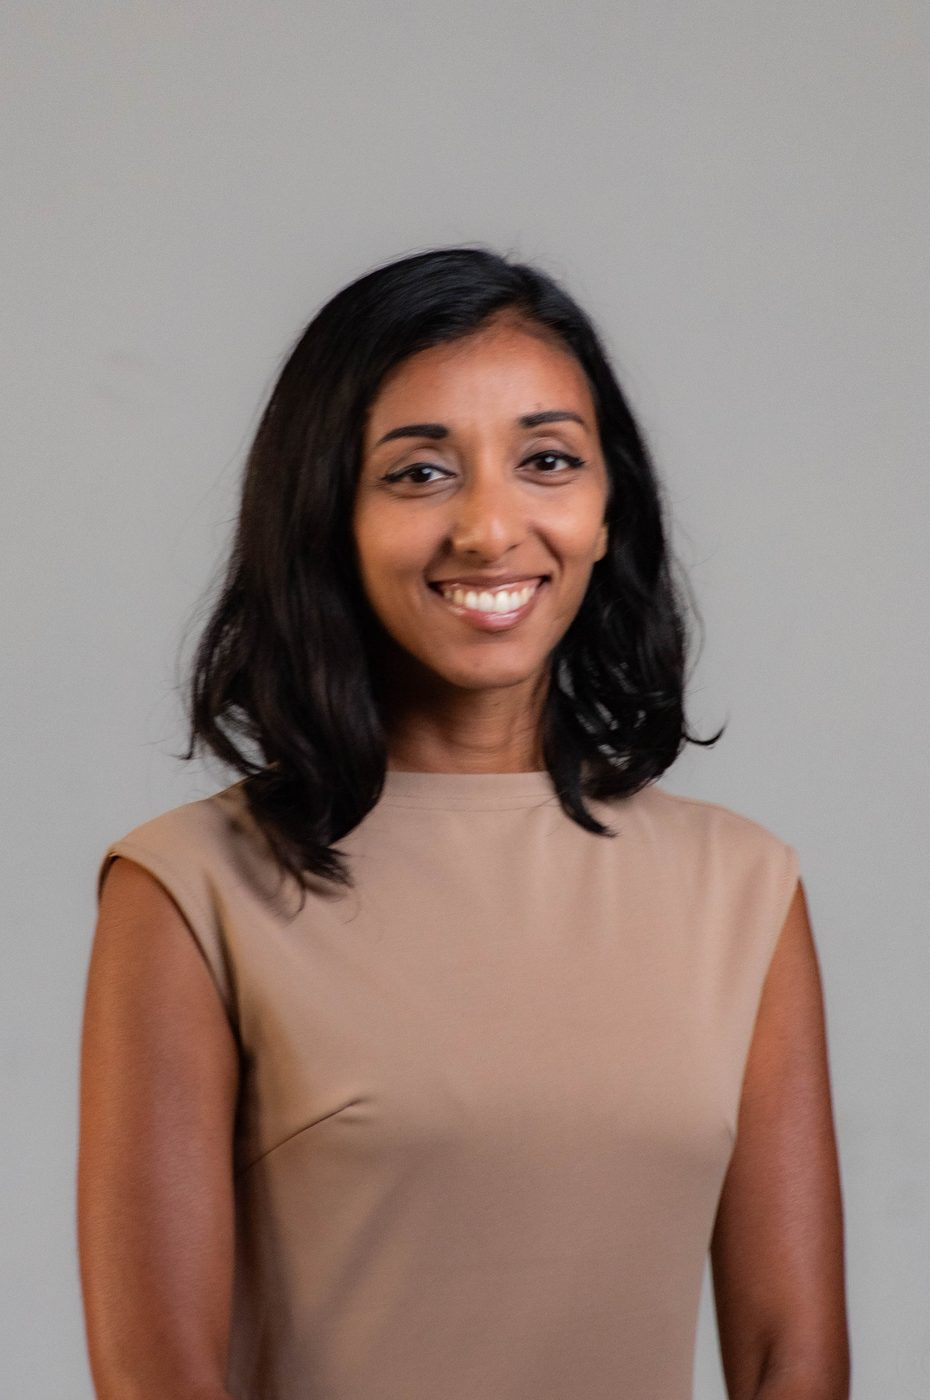
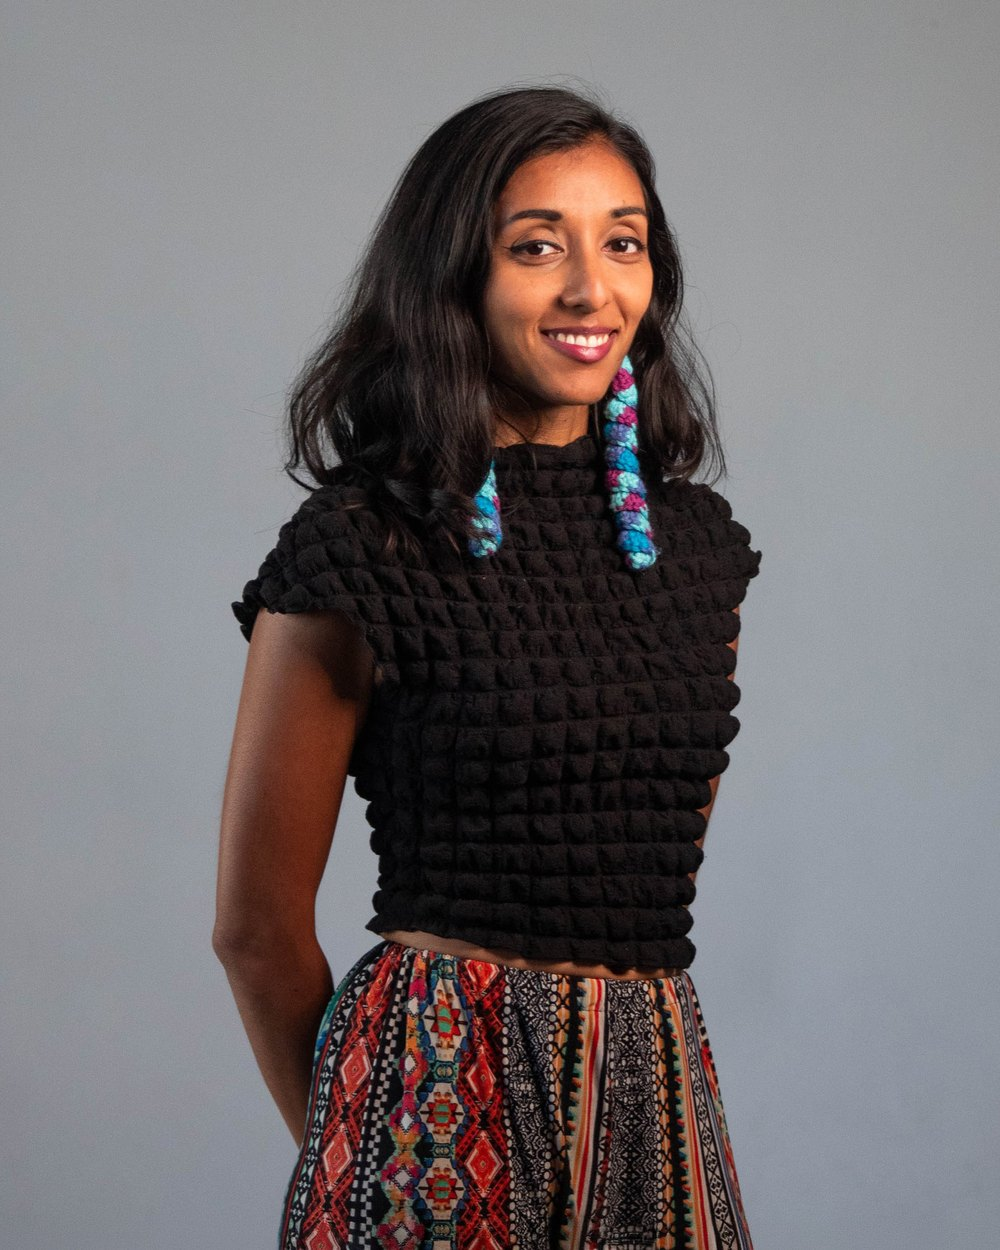
Update board member bios

diff --git a/index.html b/index.html
@@ -606,7 +606,7 @@
     }
     .team-copy h2 { margin: 12px 0 8px; font-size: clamp(52px, 7vw, 96px); line-height: .9; position: relative; }
     .team-role { color: var(--sage); font-size: 13px; letter-spacing: .18em; text-transform: uppercase; font-weight: 900; margin-bottom: 26px; position: relative; }
-    .team-copy p { color: rgba(247,241,231,.76); line-height: 1.75; font-size: 17px; max-width: 680px; position: relative; }
+    .team-copy p { color: rgba(247,241,231,.76); line-height: 1.75; font-size: 17px; max-width: 680px; position: relative; white-space: pre-line; }
     .team-social { color: var(--cream); text-decoration: none; display: inline-flex; margin-top: 6px; border-bottom: 1px solid rgba(247,241,231,.44); position: relative; }
     .team-picker {
       display: grid;
@@ -1240,7 +1240,7 @@
           <div class="team-picker" role="tablist" aria-label="Select team member">
             <button class="team-tab active" type="button" data-member="drew" role="tab" aria-selected="true"><img src="assets/img/drew.jpg" loading="eager" decoding="async" alt="" /><span><strong>Drew Muse</strong><span>President</span></span></button>
             <button class="team-tab" type="button" data-member="tanya" role="tab" aria-selected="false"><img src="assets/img/tanya.jpg" loading="eager" decoding="async" alt="" /><span><strong>Tanya Pereira</strong><span>Secretary & Treasurer</span></span></button>
-            <button class="team-tab" type="button" data-member="alicia" role="tab" aria-selected="false"><img src="assets/img/alicia.jpg" loading="eager" decoding="async" alt="" /><span><strong>Alicia Ester</strong><span>Board Member</span></span></button>
+            <button class="team-tab" type="button" data-member="alicia" role="tab" aria-selected="false"><img src="assets/img/alicia.jpg" loading="eager" decoding="async" alt="" /><span><strong>Alicia “ACE” Easter</strong><span>Board Member</span></span></button>
             <button class="team-tab" type="button" data-member="rebekah" role="tab" aria-selected="false"><img src="assets/img/rebekah.jpg" loading="eager" decoding="async" alt="" /><span><strong>Rebekah Rivera</strong><span>Board Member</span></span></button>
             <button class="team-tab" type="button" data-member="derek" role="tab" aria-selected="false"><img src="assets/img/derek.jpg" loading="eager" decoding="async" alt="" /><span><strong>Derek Garlington</strong><span>Board Member</span></span></button>
           </div>
@@ -1353,16 +1353,22 @@
         name: 'Tanya Pereira',
         role: 'Secretary & Treasurer',
         image: 'assets/img/tanya.jpg',
-        bio: 'Tanya Pereira serves as Secretary and Treasurer for Body Bend Yoga Community Foundation, helping hold the operational, governance, and financial stewardship side of the circle. Her expanded approved bio can be added here once finalized.',
+        bio: `Tanya brings a chemical engineer's lens to the work of building community. In her career, she leads scale-up and commercialization strategy, translating complex technical systems into clear, executable plans, built on process optimization, cross-functional collaboration, and knowing how to take something promising and figure out how to make it work at scale.
+
+As Secretary & Treasurer for BBYCF, Tanya oversees the Foundation's financial stewardship and governance, ensuring that BBYCF's growth is as intentional and well-built as the communities it serves.`,
         social: 'Board profile pending',
         socialUrl: '#about'
       },
       alicia: {
         eyebrow: 'Board of Directors',
-        name: 'Alicia Ester',
+        name: 'Alicia “ACE” Easter',
         role: 'Board Member',
         image: 'assets/img/alicia.jpg',
-        bio: 'Alicia Ester serves on the BBYCF Board of Directors, supporting the foundation as it grows its scholarship, wellness, and community access work. Her expanded approved bio can be added here once finalized.',
+        bio: `ACE is a wellness practitioner, keynote speaker, and retreat leader who has spent more than a decade guiding individuals, schools, corporations, and communities toward greater well-being through yoga, meditation, breathwork, sound healing, and mindfulness. She is the founder of ACE Enterprises LLC and ACE Yoga LA, and the creator of Peace in the Pause, ACE Yoga for Kids, and Stay Brave Retreats.
+
+After earning her degree in Business Administration from Auburn University and spending fifteen years in corporate marketing and commercial real estate, ACE found her life's work through the healing power of yoga while grieving the loss of her mother, and has built her career on creating space for others to reconnect with themselves. She partners with organizations, schools, and brands to bring wellness into the workplace and community, and hosts the JOY FOR LIFE Podcast, exploring conversations on joy, healing, and purpose.
+
+As a board member, ACE brings her guiding belief that peace isn't the destination but the practice to BBYCF's mission of creating brave, joyful spaces for healing and connection.`,
         social: 'Board profile pending',
         socialUrl: '#about'
       },
@@ -1371,7 +1377,11 @@
         name: 'Rebekah Rivera',
         role: 'Board Member',
         image: 'assets/img/rebekah.jpg',
-        bio: 'Rebekah Rivera serves on the BBYCF Board of Directors, helping strengthen the community foundation and its support for wellness educators. Her expanded approved bio can be added here once finalized.',
+        bio: `Rebekah is a devoted lifelong student of yoga, philosophy, mythology, and the subtle art of being human. Often called a "teacher's teacher," she's known for her gentle, insightful guidance, helping others move beyond theory and into the lived, embodied wisdom of their own experience.
+
+Her inclusive, holistic teachings weave timeless wisdom with insights from psychology, cross-cultural mythology, and physiology, making complex ideas accessible and deeply relevant to everyday life. Whether leading a workshop or a quiet conversation, she creates spaces where authenticity is honored, imperfection is welcome, and true transformation unfolds gently and organically.
+
+As a board member, Rebekah brings her warmth, humor, and unwavering presence to BBYCF's mission, inspiring the community to walk its path with clarity, courage, and compassion.`,
         social: 'Board profile pending',
         socialUrl: '#about'
       },
@@ -1380,7 +1390,11 @@
         name: 'Derek Garlington',
         role: 'Board Member',
         image: 'assets/img/derek.jpg',
-        bio: 'Derek Garlington serves on the BBYCF Board of Directors, supporting the foundation as it grows its scholarship, wellness, and community access work. His expanded approved bio can be added here once finalized.',
+        bio: `Derek is a multidisciplinary artist and healer through the modalities of movement, sound, and storytelling. As a 2x MMA Champion and yoga instructor, he's blended the two forms into his own FlowFighting practice, Martial Asana, and conducts sound baths and meditations that calm and cleanse through vibration and affirmation.
+
+His written work has been published as a novel and produced as a short film, Kindred Souls, and he holds a master's in Screenwriting from the University of Southern California. Behind the camera, he's covered over a hundred events, and he built the collaborative storytelling card game Pitch It to Me to bring others into the creative process.
+
+As a wellness guide, Derek has alchemized his talents in a variety of ways to enrich our presence with the human experience, and he brings that same spirit to BBYCF's mission of building space for rest, connection, and restoration.`,
         social: 'Board profile pending',
         socialUrl: '#about'
       }
